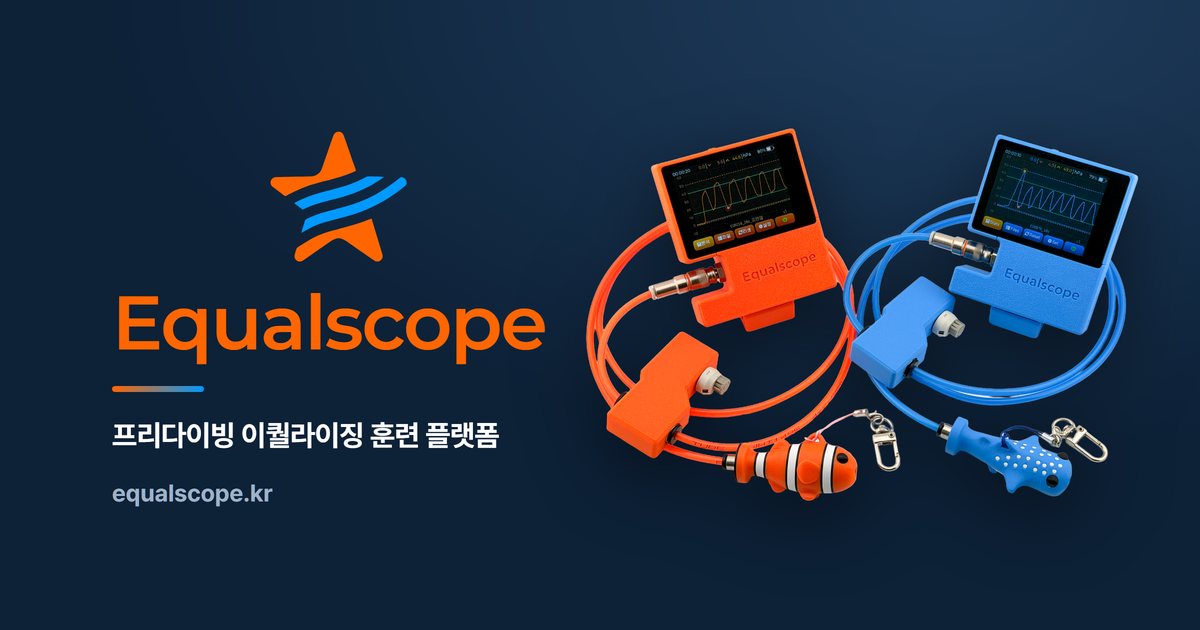
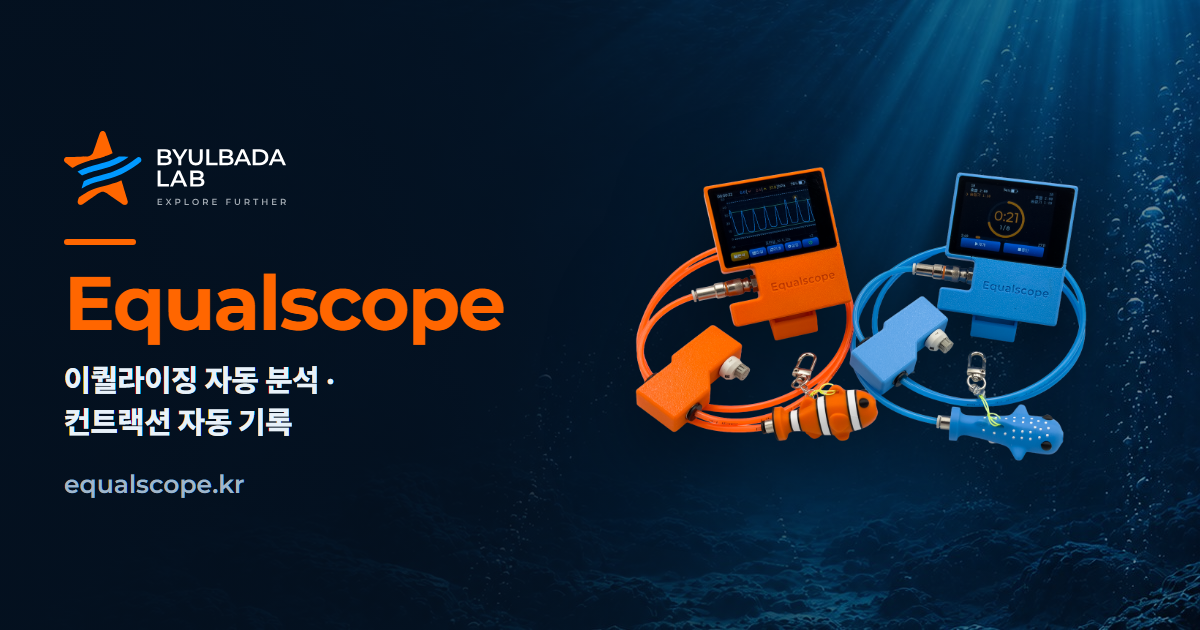
brand: 공유 카드(og:image)를 별바다랩 로고로 다시 굽는다
- 로고 = 별바다랩 가로형(두 줄 워드마크 + 태그라인)
- 문구 = 「이퀄라이징 자동 분석 · 컨트랙션 자동 기록」 (별님 선택)
  예전 「프리다이빙 이퀄라이징 훈련 플랫폼」을 대체한다
- 배경 = SNS 카드와 같은 바닷속 사진
- 파일 이름·자리는 그대로 (퍼진 링크의 미리보기가 그 주소를 가리킨다).
  대신 HTML 의 ?v=3 -> ?v=4 로 올려 캐시를 갈아 낸다

diff --git a/en/index.html b/en/index.html
@@ -24,13 +24,13 @@
 <meta property="og:url" content="https://equalscope.kr/en/">
 <meta property="og:title" content="Equalscope — Freediving Equalization Training Device">
 <meta property="og:description" content="See your equalization as a live graph. Record, analyse and compare every session — standalone, no phone required.">
-<meta property="og:image" content="https://equalscope.kr/assets/brand/og-image.png?v=3">
+<meta property="og:image" content="https://equalscope.kr/assets/brand/og-image.png?v=4">
 <meta property="og:image:width" content="1200">
 <meta property="og:image:height" content="630">
 <meta name="twitter:card" content="summary_large_image">
 <meta name="twitter:title" content="Equalscope — Freediving Equalization Training Device">
 <meta name="twitter:description" content="See your equalization as a live graph. Record, analyse and compare every session — standalone, no phone required.">
-<meta name="twitter:image" content="https://equalscope.kr/assets/brand/og-image.png?v=3">
+<meta name="twitter:image" content="https://equalscope.kr/assets/brand/og-image.png?v=4">
 
 <style>
 
@@ -42,14 +42,14 @@
 <meta property="og:url" content="https://equalscope.kr/">
 <meta property="og:title" content="Equalscope — 올인원 이퀄라이징 + CO₂·O₂ 호흡 훈련">
 <meta property="og:description" content="프리다이빙 올인원 드라이 트레이닝 장비 Equalscope — 이퀄라이징과 호흡 훈련을 한 대로. 압력은 실시간으로 측정·분석하고, CO2·O2 테이블 훈련은 음성으로 안내하고, 컨트랙션까지 자동으로 감지·기록합니다. 스마트폰도 앱도 없이.">
-<meta property="og:image" content="https://equalscope.kr/assets/brand/og-image.png?v=3">
+<meta property="og:image" content="https://equalscope.kr/assets/brand/og-image.png?v=4">
 <meta property="og:image:width" content="1200">
 <meta property="og:image:height" content="630">
 
 <meta name="twitter:card" content="summary_large_image">
 <meta name="twitter:title" content="Equalscope — 올인원 이퀄라이징 + CO₂·O₂ 호흡 훈련">
 <meta name="twitter:description" content="프리다이빙 올인원 드라이 트레이닝 장비 Equalscope — 이퀄라이징과 호흡 훈련을 한 대로. 압력은 실시간으로 측정·분석하고, CO2·O2 테이블 훈련은 음성으로 안내하고, 컨트랙션까지 자동으로 감지·기록합니다. 스마트폰도 앱도 없이.">
-<meta name="twitter:image" content="https://equalscope.kr/assets/brand/og-image.png?v=3">
+<meta name="twitter:image" content="https://equalscope.kr/assets/brand/og-image.png?v=4">
 
 <meta name="naver-site-verification" content="4cf0443c242118974b7d7512e05f9646a6355761">
 

diff --git a/index.html b/index.html
@@ -40,14 +40,14 @@
 <meta property="og:url" content="https://equalscope.kr/">
 <meta property="og:title" content="Equalscope — 올인원 이퀄라이징 + CO₂·O₂ 호흡 훈련">
 <meta property="og:description" content="프리다이빙 올인원 드라이 트레이닝 장비 Equalscope — 이퀄라이징과 호흡 훈련을 한 대로. 압력은 실시간으로 측정·분석하고, CO2·O2 테이블 훈련은 음성으로 안내하고, 컨트랙션까지 자동으로 감지·기록합니다. 스마트폰도 앱도 없이.">
-<meta property="og:image" content="https://equalscope.kr/assets/brand/og-image.png?v=3">
+<meta property="og:image" content="https://equalscope.kr/assets/brand/og-image.png?v=4">
 <meta property="og:image:width" content="1200">
 <meta property="og:image:height" content="630">
 
 <meta name="twitter:card" content="summary_large_image">
 <meta name="twitter:title" content="Equalscope — 올인원 이퀄라이징 + CO₂·O₂ 호흡 훈련">
 <meta name="twitter:description" content="프리다이빙 올인원 드라이 트레이닝 장비 Equalscope — 이퀄라이징과 호흡 훈련을 한 대로. 압력은 실시간으로 측정·분석하고, CO2·O2 테이블 훈련은 음성으로 안내하고, 컨트랙션까지 자동으로 감지·기록합니다. 스마트폰도 앱도 없이.">
-<meta name="twitter:image" content="https://equalscope.kr/assets/brand/og-image.png?v=3">
+<meta name="twitter:image" content="https://equalscope.kr/assets/brand/og-image.png?v=4">
 
 <meta name="naver-site-verification" content="4cf0443c242118974b7d7512e05f9646a6355761">
 
